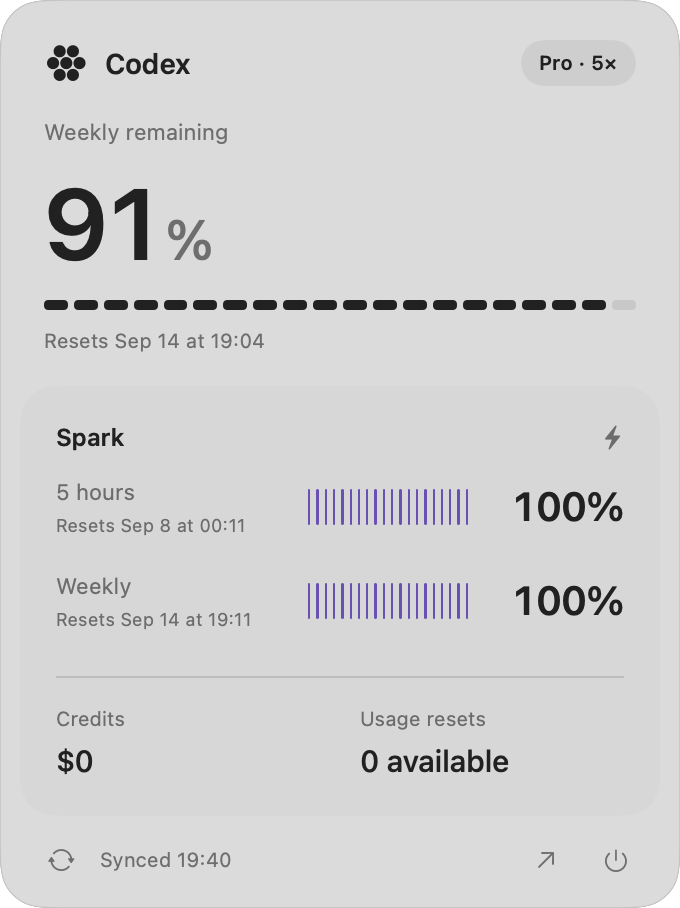
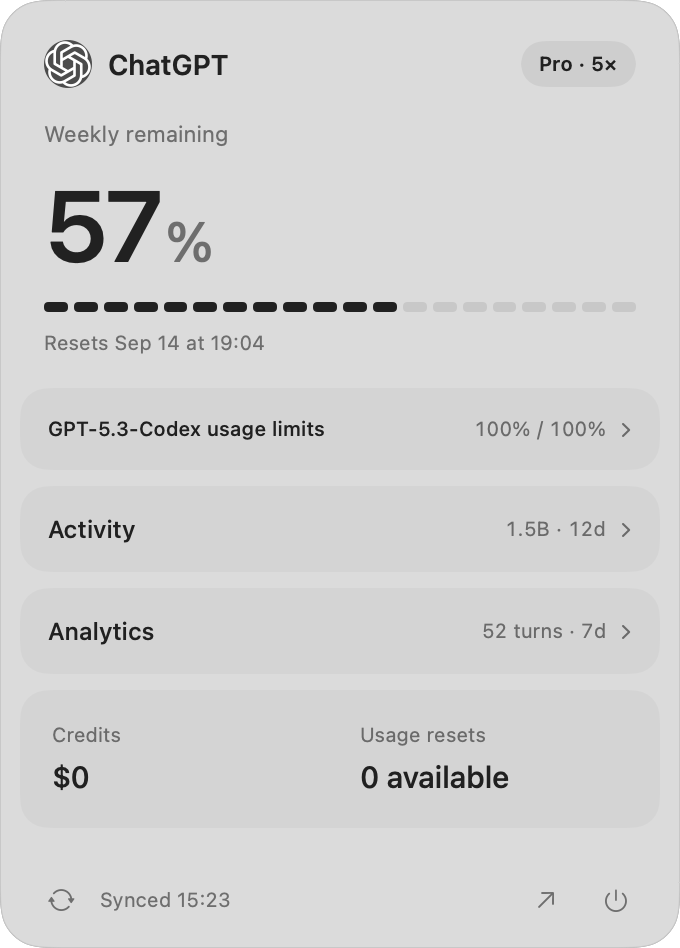
Add collapsible account activity and analytics with Blossom branding

diff --git a/Sources/CodexQuota/main.swift b/Sources/CodexQuota/main.swift
@@ -71,13 +71,16 @@ final class QuotaModel: ObservableObject {
     @Published var loading = false
     @Published var error: String?
     @Published var updated: Date?
+    @Published var insights = InsightsResult()
+    @Published var insightsLoading = false
+    @Published var insightsUpdated: Date?
 }
 
 // Keep the entire panel on the screen containing the status item, including
 // secondary displays with negative origins and displays above the main screen.
 func quotaPanelFrame(anchor: NSRect, visibleFrame: NSRect) -> NSRect {
     let safe = visibleFrame.insetBy(dx: 10, dy: 10)
-    let size = NSSize(width: min(340, safe.width), height: min(454, safe.height))
+    let size = NSSize(width: min(340, safe.width), height: min(474, safe.height))
     return NSRect(x: min(max(anchor.maxX - size.width, safe.minX), safe.maxX - size.width),
                   y: min(max(anchor.minY - size.height - 8, safe.minY), safe.maxY - size.height),
                   width: size.width, height: size.height)
@@ -98,17 +101,36 @@ struct FrostedBackground: NSViewRepresentable {
     func updateNSView(_ view: NSVisualEffectView, context: Context) {}
 }
 
+struct BlossomMark: View {
+    private static let mark: NSImage? = {
+        let installed = Bundle.main.url(forResource: "CodexQuota_CodexQuota", withExtension: "bundle").flatMap { Bundle(url: $0) }
+        let resources = installed ?? Bundle.module
+        guard let url = resources.url(forResource: "blossom-white", withExtension: "svg", subdirectory: "Resources") else { return nil }
+        return NSImage(contentsOf: url)
+    }()
+    var body: some View {
+        Group {
+            if let mark = Self.mark {
+                Image(nsImage: mark).resizable().scaledToFit().frame(width: 46, height: 46)
+            } else { Text("◌").font(.system(size: 22)) }
+        }.frame(width: 24, height: 24)
+            .background(Color.black.opacity(0.65), in: Circle())
+            .accessibilityLabel("OpenAI Blossom")
+    }
+}
+
 struct QuotaPanel: View {
     @ObservedObject var model: QuotaModel
     let refresh: () -> Void
     let quit: () -> Void
+    @State private var expanded: Set<String> = []
     @Environment(\.colorScheme) private var scheme
     @Environment(\.accessibilityReduceTransparency) private var reduceTransparency
     var body: some View {
         VStack(spacing: 0) {
             HStack(spacing: 8) {
-                Image(systemName: "circle.hexagongrid.fill").font(.system(size: 18, weight: .medium))
-                Text("Codex").font(.system(size: 14, weight: .semibold))
+                BlossomMark()
+                Text("ChatGPT").font(.system(size: 14, weight: .semibold))
                 Spacer()
                 Text(model.snapshot?.plan ?? "Account")
                     .font(.system(size: 10, weight: .semibold))
@@ -128,26 +150,50 @@ struct QuotaPanel: View {
                             Text(snapshot.plan == "API" ? "Subscription usage is not available in API mode." : "No usage window reported.")
                                 .font(.system(size: 12)).foregroundStyle(.secondary).padding(.horizontal, 22)
                         }
-                        VStack(alignment: .leading, spacing: 0) {
-                            ForEach(Array(snapshot.groups.dropFirst().enumerated()), id: \.offset) { _, group in
-                                HStack {
-                                    Text(group.name.replacingOccurrences(of: "GPT-5.3-Codex-Spark", with: "Spark"))
-                                        .font(.system(size: 12, weight: .semibold))
-                                    Spacer()
-                                    Image(systemName: "bolt.fill").font(.system(size: 11)).foregroundStyle(.secondary)
-                                }.padding(.bottom, 4)
-                                ForEach(Array(group.windows.enumerated()), id: \.offset) { _, window in
-                                    additionalRow(window)
+                        VStack(spacing: 8) {
+                            ForEach(Array(snapshot.groups.dropFirst().enumerated()), id: \.offset) { index, group in
+                                disclosure(group.name == "GPT-5.3-Codex-Spark" ? "GPT-5.3-Codex usage limits" : group.name, id: "limits-\(index)", summary: group.windows.map { "\($0.remaining)%" }.joined(separator: " / ")) {
+                                    ForEach(Array(group.windows.enumerated()), id: \.offset) { _, window in additionalRow(window) }
                                 }
-                                Divider().overlay(.primary.opacity(0.03)).padding(.vertical, 14)
+                            }
+                            disclosure("Activity", id: "activity", summary: activitySummary) {
+                                if let profile = model.insights.profile {
+                                    HStack {
+                                        smallMetric("Lifetime tokens", value: compactCount(profile.tokens))
+                                        smallMetric("Current streak", value: profile.streak.map { "\($0) days" } ?? "—")
+                                    }
+                                    miniBars(recentActivity(profile.days, count: 28), color: .primary)
+                                    HStack {
+                                        Text("Last 28 days · tokens")
+                                        Spacer()
+                                        Text(profile.chats.map { "\($0) chats" } ?? "")
+                                    }.font(.system(size: 9)).foregroundStyle(.secondary)
+                                } else { unavailableInsights }
+                            }
+                            disclosure("Analytics", id: "analytics", summary: analyticsSummary) {
+                                if let analytics = model.insights.analytics {
+                                    HStack {
+                                        smallMetric("Turns · 7 days", value: compactCount(analytics.turns))
+                                        smallMetric("Credits spent", value: analytics.credits.map { $0.formatted(.number.precision(.fractionLength(0...1))) } ?? "—")
+                                    }
+                                    miniBars(recentActivity(analytics.days, count: 7), color: .orange)
+                                    ForEach(Array(analytics.models.prefix(2).enumerated()), id: \.offset) { _, model in
+                                        HStack {
+                                            Text(model.name).lineLimit(1)
+                                            Spacer()
+                                            Text("\(Int(model.turns)) turns").monospacedDigit()
+                                        }.font(.system(size: 10)).foregroundStyle(.secondary)
+                                    }
+                                    Text("Work & Codex · UTC · may lag up to 6h")
+                                        .font(.system(size: 9)).foregroundStyle(.secondary)
+                                } else { unavailableInsights }
                             }
                             HStack(alignment: .top, spacing: 20) {
                                 smallMetric("Credits", value: snapshot.balance ?? "Unavailable")
                                 smallMetric("Usage resets", value: snapshot.resets.map { "\($0) available" } ?? "Unavailable")
-                            }
-                        }.padding(18)
-                            .background(.primary.opacity(scheme == .dark ? 0.035 : 0.025), in: RoundedRectangle(cornerRadius: 18))
-                            .padding(.horizontal, 10)
+                            }.padding(16).frame(maxWidth: .infinity, alignment: .leading)
+                                .background(.primary.opacity(0.035), in: RoundedRectangle(cornerRadius: 14))
+                        }.padding(.horizontal, 10)
                     } else {
                         HStack { ProgressView().controlSize(.small); Text("Loading usage…") }
                             .font(.system(size: 12)).padding(22)
@@ -182,6 +228,46 @@ struct QuotaPanel: View {
         }
         .clipShape(RoundedRectangle(cornerRadius: 22))
         .overlay(RoundedRectangle(cornerRadius: 22).strokeBorder(.primary.opacity(0.1), lineWidth: 0.5))
+    }
+    private var activitySummary: String {
+        guard let profile = model.insights.profile else { return model.insightsLoading ? "Syncing…" : "Unavailable" }
+        return compactCount(profile.tokens) + (profile.streak.map { " · \($0)d" } ?? "")
+    }
+    private var analyticsSummary: String {
+        guard let analytics = model.insights.analytics else { return model.insightsLoading ? "Syncing…" : "Unavailable" }
+        return "\(compactCount(analytics.turns)) turns · 7d"
+    }
+    private var unavailableInsights: some View {
+        Text(model.insightsLoading ? "Loading account statistics…" : "Statistics are unavailable for this account. Try refreshing.")
+            .font(.system(size: 11)).foregroundStyle(.secondary).fixedSize(horizontal: false, vertical: true)
+    }
+    private func disclosure<Content: View>(_ title: String, id: String, summary: String, @ViewBuilder content: () -> Content) -> some View {
+        VStack(alignment: .leading, spacing: 14) {
+            Button {
+                if expanded.contains(id) { expanded.remove(id) } else { expanded.insert(id) }
+            } label: {
+                HStack(spacing: 6) {
+                    Text(title).font(.system(size: title.count > 24 ? 10 : 12, weight: .medium)).lineLimit(1)
+                    Spacer(minLength: 4)
+                    Text(summary).font(.system(size: 10)).monospacedDigit().foregroundStyle(.secondary).lineLimit(1)
+                    Image(systemName: expanded.contains(id) ? "chevron.down" : "chevron.right")
+                        .font(.system(size: 8, weight: .semibold)).foregroundStyle(.secondary)
+                }.frame(maxWidth: .infinity).contentShape(Rectangle())
+            }.buttonStyle(.plain).accessibilityValue(expanded.contains(id) ? "Expanded" : "Collapsed")
+            if expanded.contains(id) { content() }
+        }.padding(14).frame(maxWidth: .infinity, alignment: .leading)
+            .background(.primary.opacity(0.035), in: RoundedRectangle(cornerRadius: 14))
+    }
+    private func miniBars(_ days: [DailyActivity], color: Color) -> some View {
+        let maximum = max(days.map(\.value).max() ?? 0, 1)
+        return HStack(alignment: .bottom, spacing: 4) {
+            if days.isEmpty { Text("No activity reported").font(.system(size: 10)).foregroundStyle(.secondary) }
+            ForEach(days) { day in
+                RoundedRectangle(cornerRadius: 2).fill(color.opacity(day.value > 0 ? 0.65 : 0.12))
+                    .frame(maxWidth: .infinity).frame(height: max(2, 32 * day.value / maximum))
+                    .help(day.reported ? "\(day.date): \(compactCount(day.value))" : "\(day.date): not reported")
+            }
+        }.frame(height: 34).accessibilityLabel("Daily activity")
     }
     private func primaryMetric(_ window: QuotaWindow, single: Bool) -> some View {
         VStack(alignment: .leading, spacing: 9) {
@@ -307,6 +393,7 @@ final class AppDelegate: NSObject, NSApplicationDelegate {
         }
     }
     private func refresh() {
+        refreshInsights()
         guard !model.loading else { return }
         model.loading = true
         Task { @MainActor [weak self] in
@@ -328,6 +415,17 @@ final class AppDelegate: NSObject, NSApplicationDelegate {
                     self.statusItem.button?.toolTip = "Could not refresh. Displayed usage may be outdated."
                 }
             }
+        }
+    }
+    private func refreshInsights() {
+        guard !model.insightsLoading else { return }
+        model.insightsLoading = true
+        Task { @MainActor [weak self] in
+            let result = await InsightsService.fetch()
+            guard let self else { return }
+            self.model.insights = result
+            self.model.insightsUpdated = Date()
+            self.model.insightsLoading = false
         }
     }
     private static func fetchQuota() async -> Result<QuotaSnapshot, Error> {

diff --git a/Sources/CodexQuota/Insights.swift b/Sources/CodexQuota/Insights.swift
@@ -1,0 +1,105 @@
+import Foundation
+
+struct DailyActivity: Identifiable {
+    let date: String
+    let value: Double
+    var reported = true
+    var id: String { date }
+}
+struct ProfileActivity {
+    let tokens: Double?
+    let streak: Int?
+    let chats: Int?
+    let peak: Double?
+    let days: [DailyActivity]
+    static func parse(_ json: [String: Any]) -> ProfileActivity? {
+        guard let stats = json["stats"] as? [String: Any],
+              ((json["metadata"] as? [String: Any])?["stats_error"] as? String ?? "").isEmpty else { return nil }
+        return ProfileActivity(tokens: number(stats["lifetime_tokens"]), streak: (stats["current_streak_days"] as? NSNumber)?.intValue,
+                               chats: (stats["total_threads"] as? NSNumber)?.intValue, peak: number(stats["peak_daily_tokens"]),
+                               days: ((stats["daily_usage_buckets"] as? [[String: Any]]) ?? []).compactMap {
+            guard let date = $0["start_date"] as? String, let value = number($0["tokens"]) else { return nil }
+            return DailyActivity(date: date, value: value)
+        }.sorted { $0.date < $1.date })
+    }
+}
+struct ActivityAnalytics {
+    let days: [DailyActivity]
+    let credits: Double?
+    let models: [(name: String, turns: Double)]
+    var turns: Double { days.reduce(0) { $0 + $1.value } }
+    static func parse(_ json: [String: Any]) -> ActivityAnalytics? {
+        guard let rows = json["data"] as? [[String: Any]] else { return nil }
+        var days: [DailyActivity] = [], models: [String: Double] = [:]
+        var credits = 0.0, hasCredits = rows.isEmpty
+        for row in rows {
+            guard let date = row["date"] as? String, let totals = row["totals"] as? [String: Any], let turns = number(totals["turns"]) else { return nil }
+            days.append(DailyActivity(date: date, value: turns))
+            if let value = number(totals["credits"]) { credits += value; hasCredits = true }
+            else { return nil }
+            for model in row["models"] as? [[String: Any]] ?? [] {
+                if let name = model["model"] as? String, let count = number(model["turns"]) { models[name, default: 0] += count }
+            }
+        }
+        return ActivityAnalytics(days: days.sorted { $0.date < $1.date }, credits: hasCredits ? credits : nil,
+                                 models: models.filter { $0.value > 0 }.map { (name: $0.key, turns: $0.value) }.sorted { $0.turns == $1.turns ? $0.name < $1.name : $0.turns > $1.turns })
+    }
+}
+private func number(_ raw: Any?) -> Double? {
+    guard let value = (raw as? NSNumber)?.doubleValue, value.isFinite, value >= 0 else { return nil }
+    return value
+}
+func compactCount(_ value: Double?) -> String {
+    guard let value else { return "—" }
+    for (scale, suffix) in [(1_000_000_000.0, "B"), (1_000_000.0, "M"), (1_000.0, "K")] {
+        if value >= scale { return (value / scale).formatted(.number.precision(.fractionLength(0...1))) + suffix }
+    }
+    return value.formatted(.number.precision(.fractionLength(0)))
+}
+func utcDay(_ date: Date) -> String {
+    let formatter = DateFormatter()
+    formatter.locale = Locale(identifier: "en_US_POSIX")
+    formatter.timeZone = TimeZone(secondsFromGMT: 0)
+    formatter.dateFormat = "yyyy-MM-dd"
+    return formatter.string(from: date)
+}
+// Missing dates remain unknown, rather than implying zero activity.
+func recentActivity(_ days: [DailyActivity], count: Int, now: Date = Date()) -> [DailyActivity] {
+    var lookup: [String: DailyActivity] = [:]
+    for day in days { lookup[day.date] = day }
+    return (0..<count).map { offset in
+        let date = utcDay(now.addingTimeInterval(-Double(count - 1 - offset) * 86400))
+        return lookup[date] ?? DailyActivity(date: date, value: 0, reported: false)
+    }
+}
+struct InsightsResult {
+    var profile: ProfileActivity?
+    var analytics: ActivityAnalytics?
+}
+enum InsightsService {
+    static func fetch() async -> InsightsResult {
+        do {
+            let auth = try Data(contentsOf: FileManager.default.homeDirectoryForCurrentUser.appendingPathComponent(".codex/auth.json"))
+            guard let root = try JSONSerialization.jsonObject(with: auth) as? [String: Any],
+                  let tokens = root["tokens"] as? [String: Any],
+                  let access = (tokens["access_token"] ?? tokens["accessToken"]) as? String else { return InsightsResult() }
+            let account = (tokens["account_id"] ?? tokens["accountId"]) as? String
+            let now = Date(), start = utcDay(Date().addingTimeInterval(-6 * 86400))
+            async let profile = get("profiles/me", access: access, account: account)
+            async let analytics = get("analytics/daily-workspace-usage-counts?start_date=\(start)&end_date=\(utcDay(now))&group_by=day&workspace_user=true", access: access, account: account)
+            let (p, a) = await (profile, analytics)
+            return InsightsResult(profile: p.flatMap(ProfileActivity.parse), analytics: a.flatMap(ActivityAnalytics.parse))
+        } catch { return InsightsResult() }
+    }
+    private static func get(_ path: String, access: String, account: String?) async -> [String: Any]? {
+        var request = URLRequest(url: URL(string: "https://chatgpt.com/backend-api/wham/" + path)!)
+        request.timeoutInterval = 15
+        request.setValue("Bearer \(access)", forHTTPHeaderField: "Authorization")
+        request.setValue(account, forHTTPHeaderField: "ChatGPT-Account-Id")
+        do {
+            let (data, response) = try await URLSession.shared.data(for: request)
+            guard (response as? HTTPURLResponse)?.statusCode == 200 else { return nil }
+            return try JSONSerialization.jsonObject(with: data) as? [String: Any]
+        } catch { return nil }
+    }
+}

diff --git a/Package.swift b/Package.swift
@@ -5,6 +5,6 @@ let package = Package(
     name: "CodexQuota",
     platforms: [.macOS(.v14)],
     products: [.executable(name: "CodexQuota", targets: ["CodexQuota"])],
-    targets: [.executableTarget(name: "CodexQuota")],
+    targets: [.executableTarget(name: "CodexQuota", resources: [.copy("Resources")])],
     swiftLanguageVersions: [.v5]
 )

diff --git a/README.md b/README.md
@@ -6,7 +6,8 @@
 <p align="center"><sub>Native interface rendered with example data.</sub></p>
 
 - **Always visible:** remaining quota as a single percentage for one window; `5h` / `week` labels only when there are multiple windows.
-- **One click:** general and Spark limits, reset dates, plan, credits, and available resets.
+- **One click:** general usage and collapsible model limits, plus separate credits and usage resets.
+- **At a glance:** collapsible Activity (lifetime tokens, streak, 28-day activity) and Analytics (7-day turns, top models, credits spent), fetched directly from your account. All sections start collapsed.
 - **Stays current:** refreshes every minute and when opened; supports weekly-only plans.
 - **Native feel:** frosted background, automatic light/dark themes, and a panel kept inside the current display.
 - **Small and private:** SwiftUI + AppKit, no dependencies, no analytics, no task-history access.
@@ -38,7 +39,7 @@ Builds locally, installs to `/Applications` (or `~/Applications` if needed), and
 
 ## Privacy & limitations
 
-The app reads `~/.codex/auth.json` and uses the existing session to request usage directly from `chatgpt.com`. Credentials are never logged or sent elsewhere. Task history is not read. Missing values stay unavailable; failed refreshes retain the previous values with a warning.
+The app reads `~/.codex/auth.json` and uses the existing session to request usage and aggregate profile/analytics statistics directly from `chatgpt.com`. Statistics stay in memory; conversation content is not fetched. Credentials are never logged or sent elsewhere. Task history is not read. Missing values stay unavailable; failed refreshes retain the previous values with a warning.
 
 This is an unofficial tool, not affiliated with OpenAI. It uses an undocumented usage endpoint that may change. It displays subscription quota percentages, not a raw token count. No purchases or usage resets are triggered by the app.
 
@@ -48,8 +49,9 @@ This is an unofficial tool, not affiliated with OpenAI. It uses an undocumented 
 swift build -c release
 zsh scripts/test-parser.sh
 zsh scripts/test-panel.sh
+zsh scripts/test-insights.sh
 ```
 
 To uninstall, quit CodexQuota and move `CodexQuota.app` from its installation folder to Trash. The app does not modify your Codex account or set up automatic launch at login.
 
-[MIT License](LICENSE)
+[MIT License](LICENSE) for the app code. The Blossom logo belongs to OpenAI; see [asset attribution](Sources/CodexQuota/Resources/ATTRIBUTION.md).

diff --git a/Sources/CodexQuota/Resources/ATTRIBUTION.md b/Sources/CodexQuota/Resources/ATTRIBUTION.md
@@ -1,0 +1,3 @@
+Blossom logo © OpenAI. Source: https://raw.githubusercontent.com/openai/openai-cookbook/main/examples/voice_solutions/realtime_translation_guide/livekit-translation-demo/public/brand/chatgpt-blossom-white.svg
+Used to identify the OpenAI account. Mini Token Bar is not affiliated with OpenAI.
+https://openai.com/brand/
